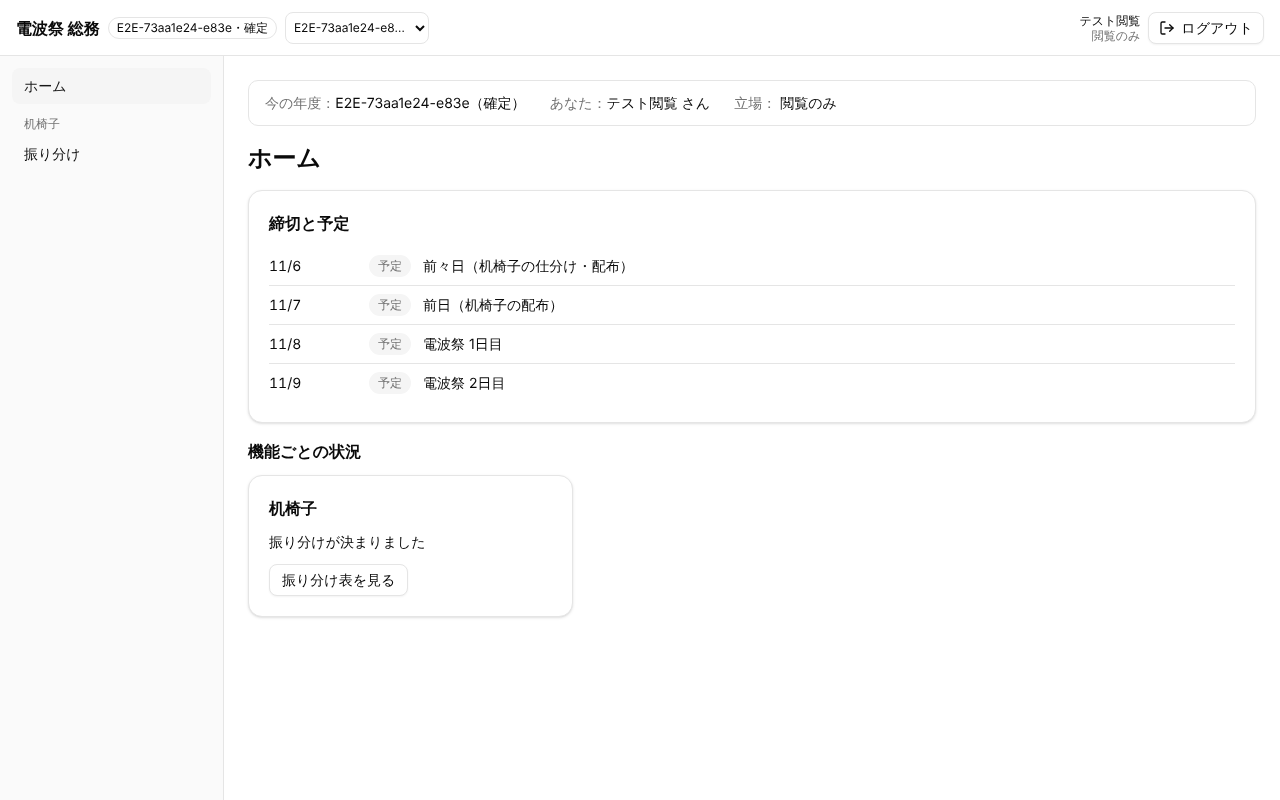
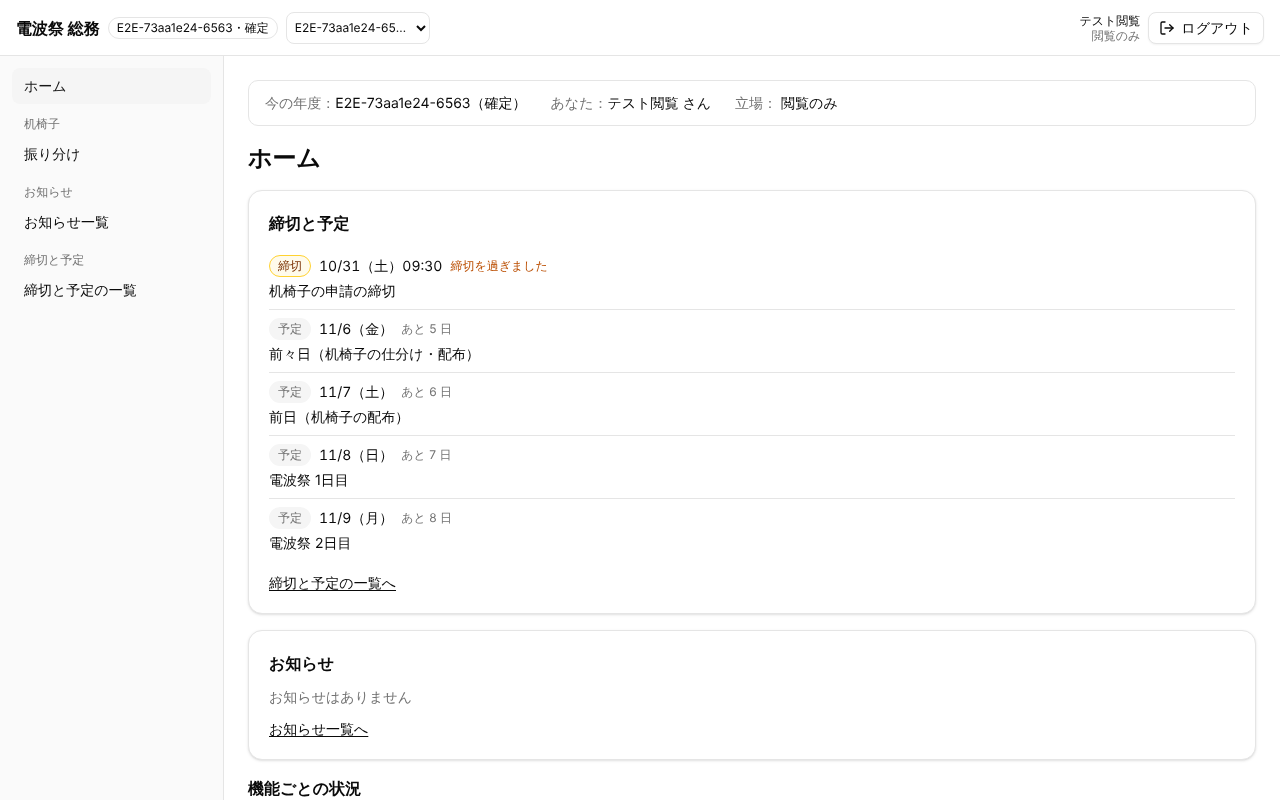
test(T16・T18): 撮影の締切と予定の件数を T18 の選び方にそろえ、スクリーンショットを撮り直す
- e2e/shots/T16.shots.ts の締切と予定の欄の件数を、T18 の選び方（これからの 30 日と過ぎた締切を 8 件まで）に合わせた：受付期間が閉じた年度は過ぎた申請の締切（「締切を過ぎました」）が入り、40 日後の祭の日は出ない。シナリオは変えていない
- notes/T16/ の 12 枚と、ナビの項目と h1 が「締切と予定の一覧」になった notes/T18/ の 16 枚を撮り直して見た
- 確かめ：lint・typecheck・Vitest（142 ファイル・2,043 件）・build・check:no-test-login・check:emails、ロックの中で db reset → E2E（chromium 188 件・serial 15 件）・basePath 2 件・撮影 15 件がすべて通った。記録は notes/T18.md・notes/T16.md の「マージの後の直し」

Claude-Session: https://claude.ai/code/session_01WNbyY2riVdfm15kp8tp6es

diff --git a/e2e/shots/T16.shots.ts b/e2e/shots/T16.shots.ts
@@ -3,6 +3,9 @@
 // 締切と予定に祭の日（前々日〜2日目。日付だけの行）を出すため、撮るときだけシナリオの年度の1日目を今日より後に動かす
 // （festivalIn）。撮影は1つずつ流れ（shots のプロジェクトは workers 1）、年度は pinYear で開くので、ほかのテストの既定の年度は
 // 変わらない（並行の E2E〔e2e/t16-portal.spec.ts〕では動かさない。D-36）。年度は撮り終えたら消す。
+// 締切と予定の欄の件数は T18 の選び方（04「ダッシュボード」の締切と予定）：これからの 30 日（今日＋30 日の日まで）のものと、過ぎた締切
+// （期限の新しい順に余りの枠へ）を 8 件まで。受付期間が閉じた年度（requestWindow: 'closed'）は昨日が申請の締切なので「締切を過ぎました」
+// で入り、受付開始（30 日前。過ぎた予定）は出ない。受付中の年度の申請の締切（今＋30 日）は入り、40 日後の祭の日は出ない。
 import { expect, test, type Page, type Route } from '@playwright/test';
 import { storageStateFor } from '../support/auth';
 import { createScenario, sql, type Scenario } from '../support/db';
@@ -60,10 +63,13 @@ test.describe('T16 管理者', () => {
       await festivalIn(s, 14);
       await pinYear(page, SEED_USER_IDS.admin, s.yearId);
 
-      // ダッシュボード：要対応（急ぎ・ふつう）、締切と予定（祭の日）、机椅子のカード
+      // ダッシュボード：要対応（急ぎ・ふつう）、締切と予定（過ぎた申請の締切と祭の4日）、机椅子のカード
       await openPortal(page, 'ダッシュボード');
       await expect(page.locator('[data-testid="portal-todo"][data-severity="urgent"]')).toHaveCount(1);
-      await expect(page.getByTestId('portal-dated-item')).toHaveCount(4);
+      await expect(page.getByTestId('portal-dated-item')).toHaveCount(5);
+      await expect(page.locator('[data-testid="portal-dated-item"][data-id="furniture:request-close"]').getByTestId('portal-dated-relative')).toHaveText(
+        '締切を過ぎました',
+      );
       await expect(furnitureCard(page)).toBeVisible();
       await shoot(page, 'T16', 'portal-admin-pc', { fullPage: true });
 
@@ -88,7 +94,7 @@ test.describe('T16 管理者', () => {
       await expect(page.getByTestId('portal-todos').locator('[data-testid="portal-loading"][data-module="furniture"]')).toBeVisible();
       await expect(page.getByTestId('portal-cards').getByTestId('portal-loading')).toBeVisible();
       await expect(page.getByTestId('portal-dated').getByTestId('portal-loading')).toHaveCount(0);
-      await expect(page.getByTestId('portal-dated-item')).toHaveCount(4);
+      await expect(page.getByTestId('portal-dated-item')).toHaveCount(5);
       await shoot(page, 'T16', 'portal-loading-pc', { fullPage: true });
       release();
       await expect(furnitureCard(page)).toBeVisible();
@@ -112,7 +118,7 @@ test.describe('T16 管理者', () => {
 test.describe('T16 総務部門長', () => {
   test.use({ storageState: storageStateFor('head'), viewport: PC });
 
-  test('T16 総務部門長のダッシュボード（振り分け中：自動振り分け・了承の依頼中。これからの締切と予定はない）', async ({ page }) => {
+  test('T16 総務部門長のダッシュボード（振り分け中：自動振り分け・了承の依頼中。締切と予定は過ぎた申請の締切だけ）', async ({ page }) => {
     const s = await createScenario({
       status: 'allocating',
       requestWindow: 'closed',
@@ -126,7 +132,12 @@ test.describe('T16 総務部門長', () => {
       await pinYear(page, SEED_USER_IDS.head, s.yearId);
       await openPortal(page, 'ダッシュボード');
       await expect(page.getByTestId('portal-todo')).toHaveCount(2);
-      await expect(page.getByTestId('portal-dated-empty')).toBeVisible();
+      // これからの項目はなく（祭の日は 2001 年）、昨日の申請の締切が「締切を過ぎました」で入る（T18 の選び方）
+      await expect(page.getByTestId('portal-dated-item')).toHaveCount(1);
+      await expect(page.locator('[data-testid="portal-dated-item"][data-id="furniture:request-close"]').getByTestId('portal-dated-relative')).toHaveText(
+        '締切を過ぎました',
+      );
+      await expect(page.getByTestId('portal-dated-empty')).toHaveCount(0);
       await shoot(page, 'T16', 'portal-head-pc', { fullPage: true });
     } finally {
       await s.cleanup();
@@ -149,7 +160,9 @@ test.describe('T16 総務部門員（スマホ）', () => {
       await pinYear(page, SEED_USER_IDS.staff, s.yearId);
       await openPortal(page, 'ダッシュボード');
       await expect(page.getByTestId('portal-todo')).toHaveCount(2);
-      await expect(page.getByTestId('portal-dated-item')).toHaveCount(5);
+      // 申請の締切（今＋30 日）だけ（40 日後の祭の日は、これからの 30 日の外。T18 の選び方）
+      await expect(page.getByTestId('portal-dated-item')).toHaveCount(1);
+      await expect(page.locator('[data-testid="portal-dated-item"][data-id="furniture:request-close"]')).toBeVisible();
       await expectNoOverflow(page);
       await shoot(page, 'T16', 'portal-staff-mobile', { fullPage: true });
 
@@ -177,7 +190,8 @@ test.describe('T16 閲覧のみ', () => {
       await pinYear(page, SEED_USER_IDS.viewer, s.yearId);
       await openPortal(page, 'ホーム');
       await expect(furnitureCard(page).getByRole('link', { name: '振り分け表を見る' })).toBeVisible();
-      await expect(page.getByTestId('portal-dated-item')).toHaveCount(4);
+      // 祭の4日と、過ぎた申請の締切（T18 の選び方）
+      await expect(page.getByTestId('portal-dated-item')).toHaveCount(5);
       await shoot(page, 'T16', 'portal-viewer-pc');
 
       await page.setViewportSize(MOBILE);
